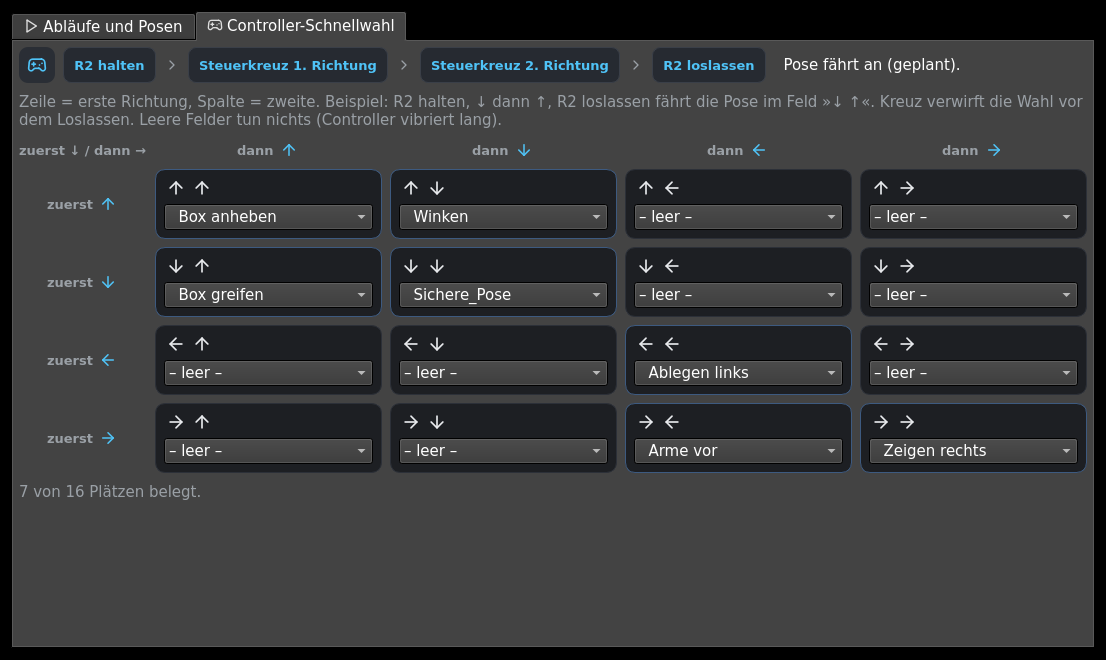
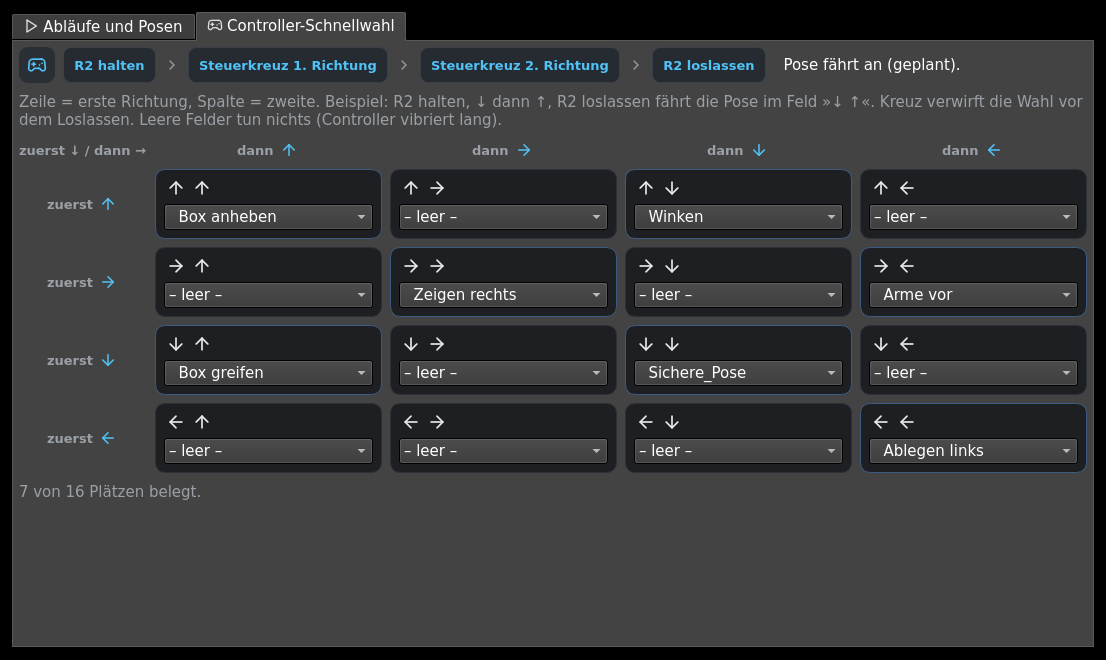
Schnellwahl-Raster im Uhrzeigersinn: hoch, rechts, runter, links
Claude-Session: https://claude.ai/code/session_01VrGzNWNYdxhC7aTP5bHB5w

diff --git a/g1pilot/g1pilot/manipulation/pose_store.py b/g1pilot/g1pilot/manipulation/pose_store.py
@@ -108,7 +108,7 @@ MAX_WAIT_S = 600.0
 MAX_MOVE_M = 0.30
 MOVE_SIDES = ("left", "right")
 # Controller-Schnellwahl: Steuerkreuz-Richtungen (Reihenfolge = Anzeige).
-QUICK_DIRS = ("up", "down", "left", "right")
+QUICK_DIRS = ("up", "right", "down", "left")   # im Uhrzeigersinn (Nils)
 QUICK_COMBOS = tuple(f"{a}-{b}" for a in QUICK_DIRS for b in QUICK_DIRS)
 
 

diff --git a/g1pilot/docs/23-T-Posen-und-Ablaeufe.md b/g1pilot/docs/23-T-Posen-und-Ablaeufe.md
@@ -35,7 +35,7 @@ Dateiformat Version 3 (seit 2026-10-22, Abläufe):
 ```
 
 `quickslots` (seit 2026-11-16, Version bleibt 3): Controller-Schnellwahl,
-Schlüssel `<erste>-<zweite>` Steuerkreuz-Richtung (`up`/`down`/`left`/`right`,
+Schlüssel `<erste>-<zweite>` Steuerkreuz-Richtung (`up`/`right`/`down`/`left`, Anzeige im Uhrzeigersinn,
 `QUICK_COMBOS`), Wert = Posenname (Verweis; eine gelöschte Pose bleibt
 stehen, wird im Raster rot „(fehlt)“ angezeigt und beim Auslösen
 abgelehnt). API: `list_quickslots()`, `quickslot(combo)`,
